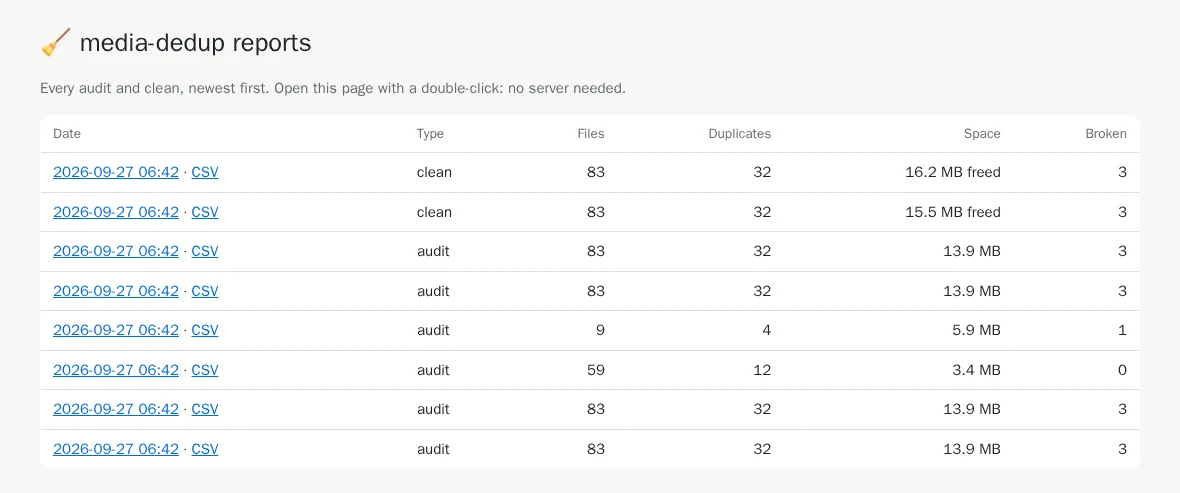
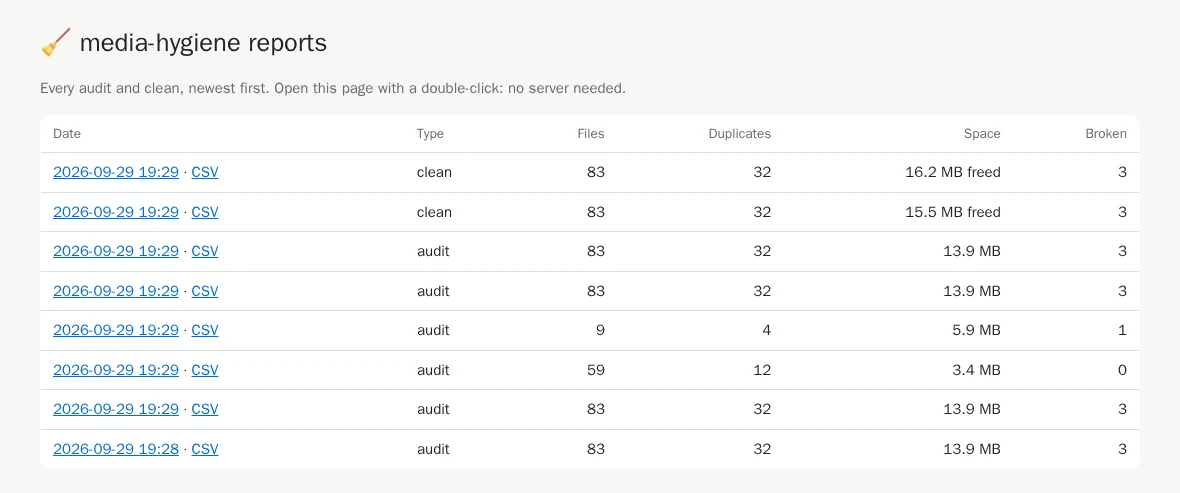
Rename to media-hygiene: captures, CLAUDE.md, devcontainer (TODO 0040)
- docs_screenshots rerun on the renamed image, en and fr: terminal
  windows and pages say media-hygiene; the console blocks only change
  their run ids and dates.
- CLAUDE.md: what remains of the former name, and why.
- devcontainer.json: the volumes keep the former name on purpose
  (media-dedup-claude holds Claude Code's login).

diff --git a/documentation/fr/04-html-report.md b/documentation/fr/04-html-report.md
@@ -29,7 +29,7 @@ dossier que Docker crée lui-même appartient à l'administrateur, et l'outil ne
 
 <!-- capture: audit.txt|Rapport HTML|Ouvrez index.html -->
 ```text
-✅ Rapport HTML : /reports/20260927-064328-audit/report.html
+✅ Rapport HTML : /reports/20260929-193001-audit/report.html
 💡 Ouvrez index.html dans le dossier monté sur /reports : il liste tous les
 rapports.
 ```
@@ -136,14 +136,14 @@ Rapports (du plus récent au plus ancien)
 ┏━━━━━━━━━━━━━━━━━━━━━━━┳━━━━━━━━━━━┳━━━━━━━━━━┳━━━━━━━━━━┳━━━━━━━━━┳━━━━━━━━┓
 ┃ Dossier               ┃ Type      ┃ Fichiers ┃ Doublons ┃ Espace  ┃ Cassés ┃
 ┡━━━━━━━━━━━━━━━━━━━━━━━╇━━━━━━━━━━━╇━━━━━━━━━━╇━━━━━━━━━━╇━━━━━━━━━╇━━━━━━━━┩
-│ 20260927-064358-clean │ nettoyage │ 83       │ 32       │ 16,2 Mo │ 3      │
-│ 20260927-064355-clean │ nettoyage │ 83       │ 32       │ 15,5 Mo │ 3      │
-│ 20260927-064340-audit │ audit     │ 83       │ 32       │ 13,9 Mo │ 3      │
-│ 20260927-064335-audit │ audit     │ 83       │ 32       │ 13,9 Mo │ 3      │
-│ 20260927-064333-audit │ audit     │ 9        │ 4        │ 5,9 Mo  │ 1      │
-│ 20260927-064332-audit │ audit     │ 59       │ 12       │ 3,4 Mo  │ 0      │
-│ 20260927-064330-audit │ audit     │ 83       │ 32       │ 13,9 Mo │ 3      │
-│ 20260927-064328-audit │ audit     │ 83       │ 32       │ 13,9 Mo │ 3      │
+│ 20260929-193031-clean │ nettoyage │ 83       │ 32       │ 16,2 Mo │ 3      │
+│ 20260929-193028-clean │ nettoyage │ 83       │ 32       │ 15,5 Mo │ 3      │
+│ 20260929-193012-audit │ audit     │ 83       │ 32       │ 13,9 Mo │ 3      │
+│ 20260929-193007-audit │ audit     │ 83       │ 32       │ 13,9 Mo │ 3      │
+│ 20260929-193006-audit │ audit     │ 9        │ 4        │ 5,9 Mo  │ 1      │
+│ 20260929-193004-audit │ audit     │ 59       │ 12       │ 3,4 Mo  │ 0      │
+│ 20260929-193002-audit │ audit     │ 83       │ 32       │ 13,9 Mo │ 3      │
+│ 20260929-193001-audit │ audit     │ 83       │ 32       │ 13,9 Mo │ 3      │
 └───────────────────────┴───────────┴──────────┴──────────┴─────────┴────────┘
 💡 Double-cliquez sur index.html dans le dossier monté sur /reports.
 ```

diff --git a/documentation/en/04-html-report.md b/documentation/en/04-html-report.md
@@ -29,7 +29,7 @@ At the end of the audit, two new lines:
 
 <!-- capture: audit.txt|HTML report|Open index.html -->
 ```text
-✅ HTML report: /reports/20260927-064228-audit/report.html
+✅ HTML report: /reports/20260929-192859-audit/report.html
 💡 Open index.html in the folder mounted on /reports: it lists every report.
 ```
 
@@ -128,14 +128,14 @@ Reports (newest first)
 ┏━━━━━━━━━━━━━━━━━━━━━━━┳━━━━━━━┳━━━━━━━┳━━━━━━━━━━━━┳━━━━━━━━━┳━━━━━━━━┓
 ┃ Folder                ┃ Type  ┃ Files ┃ Duplicates ┃ Space   ┃ Broken ┃
 ┡━━━━━━━━━━━━━━━━━━━━━━━╇━━━━━━━╇━━━━━━━╇━━━━━━━━━━━━╇━━━━━━━━━╇━━━━━━━━┩
-│ 20260927-064257-clean │ clean │ 83    │ 32         │ 16.2 MB │ 3      │
-│ 20260927-064254-clean │ clean │ 83    │ 32         │ 15.5 MB │ 3      │
-│ 20260927-064238-audit │ audit │ 83    │ 32         │ 13.9 MB │ 3      │
-│ 20260927-064234-audit │ audit │ 83    │ 32         │ 13.9 MB │ 3      │
-│ 20260927-064232-audit │ audit │ 9     │ 4          │ 5.9 MB  │ 1      │
-│ 20260927-064231-audit │ audit │ 59    │ 12         │ 3.4 MB  │ 0      │
-│ 20260927-064229-audit │ audit │ 83    │ 32         │ 13.9 MB │ 3      │
-│ 20260927-064228-audit │ audit │ 83    │ 32         │ 13.9 MB │ 3      │
+│ 20260929-192930-clean │ clean │ 83    │ 32         │ 16.2 MB │ 3      │
+│ 20260929-192927-clean │ clean │ 83    │ 32         │ 15.5 MB │ 3      │
+│ 20260929-192911-audit │ audit │ 83    │ 32         │ 13.9 MB │ 3      │
+│ 20260929-192905-audit │ audit │ 83    │ 32         │ 13.9 MB │ 3      │
+│ 20260929-192903-audit │ audit │ 9     │ 4          │ 5.9 MB  │ 1      │
+│ 20260929-192902-audit │ audit │ 59    │ 12         │ 3.4 MB  │ 0      │
+│ 20260929-192900-audit │ audit │ 83    │ 32         │ 13.9 MB │ 3      │
+│ 20260929-192859-audit │ audit │ 83    │ 32         │ 13.9 MB │ 3      │
 └───────────────────────┴───────┴───────┴────────────┴─────────┴────────┘
 💡 Double-click index.html in the folder mounted on /reports.
 ```

diff --git a/documentation/fr/11-near-duplicates.md b/documentation/fr/11-near-duplicates.md
@@ -61,7 +61,7 @@ quarantaine et traiter 3 fichiers cassés ? [o/N] o
 <!-- capture: clean-near.txt|re:^─+ Nettoyage| -->
 ```text
 ────────────────────────────────── Nettoyage ───────────────────────────────────
-Nettoyage 20260927-064358
+Nettoyage 20260929-193031
 ┌───────────────────────────┬─────────┐
 │ Fichiers traités          │      40 │
 │ Taille                    │ 16,2 Mo │
@@ -70,11 +70,11 @@ Nettoyage 20260927-064358
 │ En échec                  │       0 │
 │ Durée                     │     0 s │
 └───────────────────────────┴─────────┘
-✅ Rapport HTML : /reports/20260927-064358-clean/report.html
+✅ Rapport HTML : /reports/20260929-193031-clean/report.html
 💡 Ouvrez index.html dans le dossier monté sur /reports : il liste tous les
 rapports.
-💡 Vous changez d'avis ? 'media-hygiene undo 20260927-064358' restaure tout.
-💡 Les fichiers déplacés sont dans /quarantine/20260927-064358 ; 'purge' les
+💡 Vous changez d'avis ? 'media-hygiene undo 20260929-193031' restaure tout.
+💡 Les fichiers déplacés sont dans /quarantine/20260929-193031 ; 'purge' les
 supprime.
 ```
 
@@ -85,13 +85,13 @@ les fichiers illisibles et le fichier compagnon orphelin :
 
 <!-- capture: quarantine.txt -->
 ```text
-./20260927-064358/c/Photos/2022/Anniversaire/IMG_3003.jpg
-./20260927-064358/c/Photos/2023/Lac/IMG_4004.jpg
-./20260927-064358/c/Photos/WhatsApp/IMG-20190712-WA0003.jpg
-./20260927-064358/d/Ancien disque/2020/IMG_1203.jpg
-./20260927-064358/d/Ancien disque/Courriel/IMG_0110 petite.jpg
-./20260927-064358/d/Ancien disque/Photos 2019/IMG_0102.xmp
-./20260927-064358/d/Ancien disque/Vidéos/Anniversaire (coupée).mp4
+./20260929-193031/c/Photos/2022/Anniversaire/IMG_3003.jpg
+./20260929-193031/c/Photos/2023/Lac/IMG_4004.jpg
+./20260929-193031/c/Photos/WhatsApp/IMG-20190712-WA0003.jpg
+./20260929-193031/d/Ancien disque/2020/IMG_1203.jpg
+./20260929-193031/d/Ancien disque/Courriel/IMG_0110 petite.jpg
+./20260929-193031/d/Ancien disque/Photos 2019/IMG_0102.xmp
+./20260929-193031/d/Ancien disque/Vidéos/Anniversaire (coupée).mp4
 ```
 
 Avant de déplacer chaque copie, `clean` vérifie que la photo gardée existe toujours et que la

diff --git a/documentation/en/11-near-duplicates.md b/documentation/en/11-near-duplicates.md
@@ -60,7 +60,7 @@ quarantine and handle 3 broken files? [y/N] y
 <!-- capture: clean-near.txt|re:^─+ Clean| -->
 ```text
 ──────────────────────────────────── Clean ─────────────────────────────────────
-Clean 20260927-064257
+Clean 20260929-192930
 ┌──────────────────────────┬─────────┐
 │ Files processed          │      40 │
 │ Size                     │ 16.2 MB │
@@ -69,10 +69,10 @@ Clean 20260927-064257
 │ Failed                   │       0 │
 │ Duration                 │     0 s │
 └──────────────────────────┴─────────┘
-✅ HTML report: /reports/20260927-064257-clean/report.html
+✅ HTML report: /reports/20260929-192930-clean/report.html
 💡 Open index.html in the folder mounted on /reports: it lists every report.
-💡 Changed your mind? 'media-hygiene undo 20260927-064257' restores everything.
-💡 Moved files are in /quarantine/20260927-064257; 'purge' deletes them.
+💡 Changed your mind? 'media-hygiene undo 20260929-192930' restores everything.
+💡 Moved files are in /quarantine/20260929-192930; 'purge' deletes them.
 ```
 
 Near duplicates are **moved to the quarantine**, never deleted: they are not identical to the
@@ -82,13 +82,13 @@ sidecar:
 
 <!-- capture: quarantine.txt -->
 ```text
-./20260927-064257/c/Photos/2022/Birthday/IMG_3003.jpg
-./20260927-064257/c/Photos/2023/Lake/IMG_4004.jpg
-./20260927-064257/c/Photos/WhatsApp/IMG-20190712-WA0003.jpg
-./20260927-064257/d/Old disk/2020/IMG_1203.jpg
-./20260927-064257/d/Old disk/Email/IMG_0110 small.jpg
-./20260927-064257/d/Old disk/Photos 2019/IMG_0102.xmp
-./20260927-064257/d/Old disk/Videos/Birthday (cut).mp4
+./20260929-192930/c/Photos/2022/Birthday/IMG_3003.jpg
+./20260929-192930/c/Photos/2023/Lake/IMG_4004.jpg
+./20260929-192930/c/Photos/WhatsApp/IMG-20190712-WA0003.jpg
+./20260929-192930/d/Old disk/2020/IMG_1203.jpg
+./20260929-192930/d/Old disk/Email/IMG_0110 small.jpg
+./20260929-192930/d/Old disk/Photos 2019/IMG_0102.xmp
+./20260929-192930/d/Old disk/Videos/Birthday (cut).mp4
 ```
 
 Before moving each copy, `clean` checks that the kept photo still exists and that the copy is

diff --git a/documentation/fr/09-undo-history-purge.md b/documentation/fr/09-undo-history-purge.md
@@ -26,8 +26,8 @@ docker run --rm -it `
 
 <!-- capture: undo.txt -->
 ```text
-────────────────────────── Annulation 20260927-064355 ──────────────────────────
-Annulation 20260927-064355
+────────────────────────── Annulation 20260929-193028 ──────────────────────────
+Annulation 20260929-193028
 ┌───────────────────────────┬─────────┐
 │ Fichiers traités          │      36 │
 │ Taille                    │ 15,5 Mo │
@@ -56,8 +56,8 @@ Nettoyages (du plus récent au plus ancien)
 ┏━━━━━━━━━━━━━━━━━┳━━━━━━━━━━━┳━━━━━━━━━┳━━━━━━━━━━━━━━━━┳━━━━━━━━━━━┓
 ┃ Exécution       ┃ Supprimés ┃  Libéré ┃ En quarantaine ┃ Restaurés ┃
 ┡━━━━━━━━━━━━━━━━━╇━━━━━━━━━━━╇━━━━━━━━━╇━━━━━━━━━━━━━━━━╇━━━━━━━━━━━┩
-│ 20260927-064358 │        33 │ 16,2 Mo │              7 │         0 │
-│ 20260927-064355 │        33 │ 15,5 Mo │              3 │        36 │
+│ 20260929-193031 │        33 │ 16,2 Mo │              7 │         0 │
+│ 20260929-193028 │        33 │ 15,5 Mo │              3 │        36 │
 └─────────────────┴───────────┴─────────┴────────────────┴───────────┘
 💡 'media-hygiene undo <run>' restaure les fichiers d'une exécution.
 ```
@@ -79,7 +79,7 @@ cavo789/media-hygiene --locale fr purge
 
 <!-- capture: purge.txt -->
 ```text
-❓ Supprimer définitivement la quarantaine de 20260927-064358, 20260927-064355
+❓ Supprimer définitivement la quarantaine de 20260929-193031, 20260929-193028
 (2,2 Mo) ? [o/N] o
 ✅ Quarantaine vidée : 2,2 Mo libérés.
 💡 'undo' ne pourra plus restaurer ces fichiers cassés.

diff --git a/documentation/en/09-undo-history-purge.md b/documentation/en/09-undo-history-purge.md
@@ -26,8 +26,8 @@ docker run --rm -it `
 
 <!-- capture: undo.txt -->
 ```text
-───────────────────────────── Undo 20260927-064254 ─────────────────────────────
-Undo 20260927-064254
+───────────────────────────── Undo 20260929-192927 ─────────────────────────────
+Undo 20260929-192927
 ┌──────────────────────────┬─────────┐
 │ Files processed          │      36 │
 │ Size                     │ 15.5 MB │
@@ -55,8 +55,8 @@ Clean runs (newest first)
 ┏━━━━━━━━━━━━━━━━━┳━━━━━━━━━┳━━━━━━━━━┳━━━━━━━━━━━━━┳━━━━━━━━━━┓
 ┃ Run             ┃ Deleted ┃   Freed ┃ Quarantined ┃ Restored ┃
 ┡━━━━━━━━━━━━━━━━━╇━━━━━━━━━╇━━━━━━━━━╇━━━━━━━━━━━━━╇━━━━━━━━━━┩
-│ 20260927-064257 │      33 │ 16.2 MB │           7 │        0 │
-│ 20260927-064254 │      33 │ 15.5 MB │           3 │       36 │
+│ 20260929-192930 │      33 │ 16.2 MB │           7 │        0 │
+│ 20260929-192927 │      33 │ 15.5 MB │           3 │       36 │
 └─────────────────┴─────────┴─────────┴─────────────┴──────────┘
 💡 'media-hygiene undo <run>' restores the files of a run.
 ```
@@ -77,7 +77,7 @@ cavo789/media-hygiene purge
 
 <!-- capture: purge.txt -->
 ```text
-❓ Permanently delete the quarantine of 20260927-064257, 20260927-064254 (2.2
+❓ Permanently delete the quarantine of 20260929-192930, 20260929-192927 (2.2
 MB)? [y/N] y
 ✅ Quarantine purged: 2.2 MB freed.
 💡 'undo' can no longer restore these broken files.

diff --git a/documentation/fr/08-clean.md b/documentation/fr/08-clean.md
@@ -60,7 +60,7 @@ Toute autre réponse que `o` arrête tout ici, et rien ne change. Avec `o` :
 <!-- capture: clean.txt|re:^─+ Nettoyage| -->
 ```text
 ────────────────────────────────── Nettoyage ───────────────────────────────────
-Nettoyage 20260927-064355
+Nettoyage 20260929-193028
 ┌───────────────────────────┬─────────┐
 │ Fichiers traités          │      36 │
 │ Taille                    │ 15,5 Mo │
@@ -69,11 +69,11 @@ Nettoyage 20260927-064355
 │ En échec                  │       0 │
 │ Durée                     │     0 s │
 └───────────────────────────┴─────────┘
-✅ Rapport HTML : /reports/20260927-064355-clean/report.html
+✅ Rapport HTML : /reports/20260929-193028-clean/report.html
 💡 Ouvrez index.html dans le dossier monté sur /reports : il liste tous les
 rapports.
-💡 Vous changez d'avis ? 'media-hygiene undo 20260927-064355' restaure tout.
-💡 Les fichiers déplacés sont dans /quarantine/20260927-064355 ; 'purge' les
+💡 Vous changez d'avis ? 'media-hygiene undo 20260929-193028' restaure tout.
+💡 Les fichiers déplacés sont dans /quarantine/20260929-193028 ; 'purge' les
 supprime.
 ```
 

diff --git a/documentation/en/08-clean.md b/documentation/en/08-clean.md
@@ -58,7 +58,7 @@ Anything but `y` stops here, and nothing changes. With `y`:
 <!-- capture: clean.txt|re:^─+ Clean| -->
 ```text
 ──────────────────────────────────── Clean ─────────────────────────────────────
-Clean 20260927-064254
+Clean 20260929-192927
 ┌──────────────────────────┬─────────┐
 │ Files processed          │      36 │
 │ Size                     │ 15.5 MB │
@@ -67,10 +67,10 @@ Clean 20260927-064254
 │ Failed                   │       0 │
 │ Duration                 │     0 s │
 └──────────────────────────┴─────────┘
-✅ HTML report: /reports/20260927-064254-clean/report.html
+✅ HTML report: /reports/20260929-192927-clean/report.html
 💡 Open index.html in the folder mounted on /reports: it lists every report.
-💡 Changed your mind? 'media-hygiene undo 20260927-064254' restores everything.
-💡 Moved files are in /quarantine/20260927-064254; 'purge' deletes them.
+💡 Changed your mind? 'media-hygiene undo 20260929-192927' restores everything.
+💡 Moved files are in /quarantine/20260929-192927; 'purge' deletes them.
 ```
 
 | Line | What it means |

diff --git a/CLAUDE.md b/CLAUDE.md
@@ -5,7 +5,10 @@ This file provides guidance to Claude Code (claude.ai/code) when working with co
 ## Project
 
 `media-hygiene` finds and safely cleans duplicate photos and videos across folders and disks. It
-ships as a Docker image published on Docker Hub as `cavo789/media-hygiene` (amd64 + arm64, by CI
+was called `media-dedup` up to 0.2; what remains of that name is deliberate:
+`config/legacy_env.py` reads `MEDIA_DEDUP_*` until 0.4.0, `summary.json` accepts
+`only_media_dedup`, `tests/fixtures/0.2.0/` proves old files still load, and the devcontainer
+volumes keep their names. It ships as a Docker image published on Docker Hub as `cavo789/media-hygiene` (amd64 + arm64, by CI
 on a `vX.Y.Z` tag that the helper `release` creates; local build: `docker build --tag
 media-hygiene .`, `ENTRYPOINT ["media-hygiene"]`) run from PowerShell or WSL. User documentation:
 [README.md](README.md) / [README_FR.md](README_FR.md) (quick start + contents only) and

diff --git a/documentation/fr/10-review-bursts.md b/documentation/fr/10-review-bursts.md
@@ -45,7 +45,7 @@ Le tri commence par un audit (rapide, grâce au cache), puis vous attend :
 ```text
 ✅ Tri prêt sur le port 8080 : chaque décision est enregistrée aussitôt dans
 decisions.json. Ctrl+C arrête le tri.
-💡 Son adresse sur votre ordinateur : lancez 'docker port 73964c317016 8080'
+💡 Son adresse sur votre ordinateur : lancez 'docker port 7f9965f55f6e 8080'
 dans un autre terminal, puis ouvrez http://<cette adresse> dans votre
 navigateur.
 ```

diff --git a/documentation/en/10-review-bursts.md b/documentation/en/10-review-bursts.md
@@ -44,7 +44,7 @@ The review first audits (quickly, thanks to the cache), then waits for you:
 ```text
 ✅ Review ready on port 8080: each decision is saved at once in decisions.json.
 Ctrl+C stops the review.
-💡 Its address on your computer: run 'docker port 636c16928317 8080' in another
+💡 Its address on your computer: run 'docker port 13f3a8828dd4 8080' in another
 terminal, then open http://<that address> in your browser.
 ```
 

diff --git a/documentation/fr/13-second-opinion.md b/documentation/fr/13-second-opinion.md
@@ -49,7 +49,7 @@ groupe. Après le résumé habituel :
 
 <!-- capture: crosscheck.txt|re:^Résultats de Czkawka|d'accord -->
 ```text
-Résultats de Czkawka du 2026-09-27 06:43 UTC.
+Résultats de Czkawka du 2026-09-29 19:30 UTC.
 ✅ Czkawka est d'accord : les mêmes 32 copies en trop dans 20 groupes.
 ```
 
